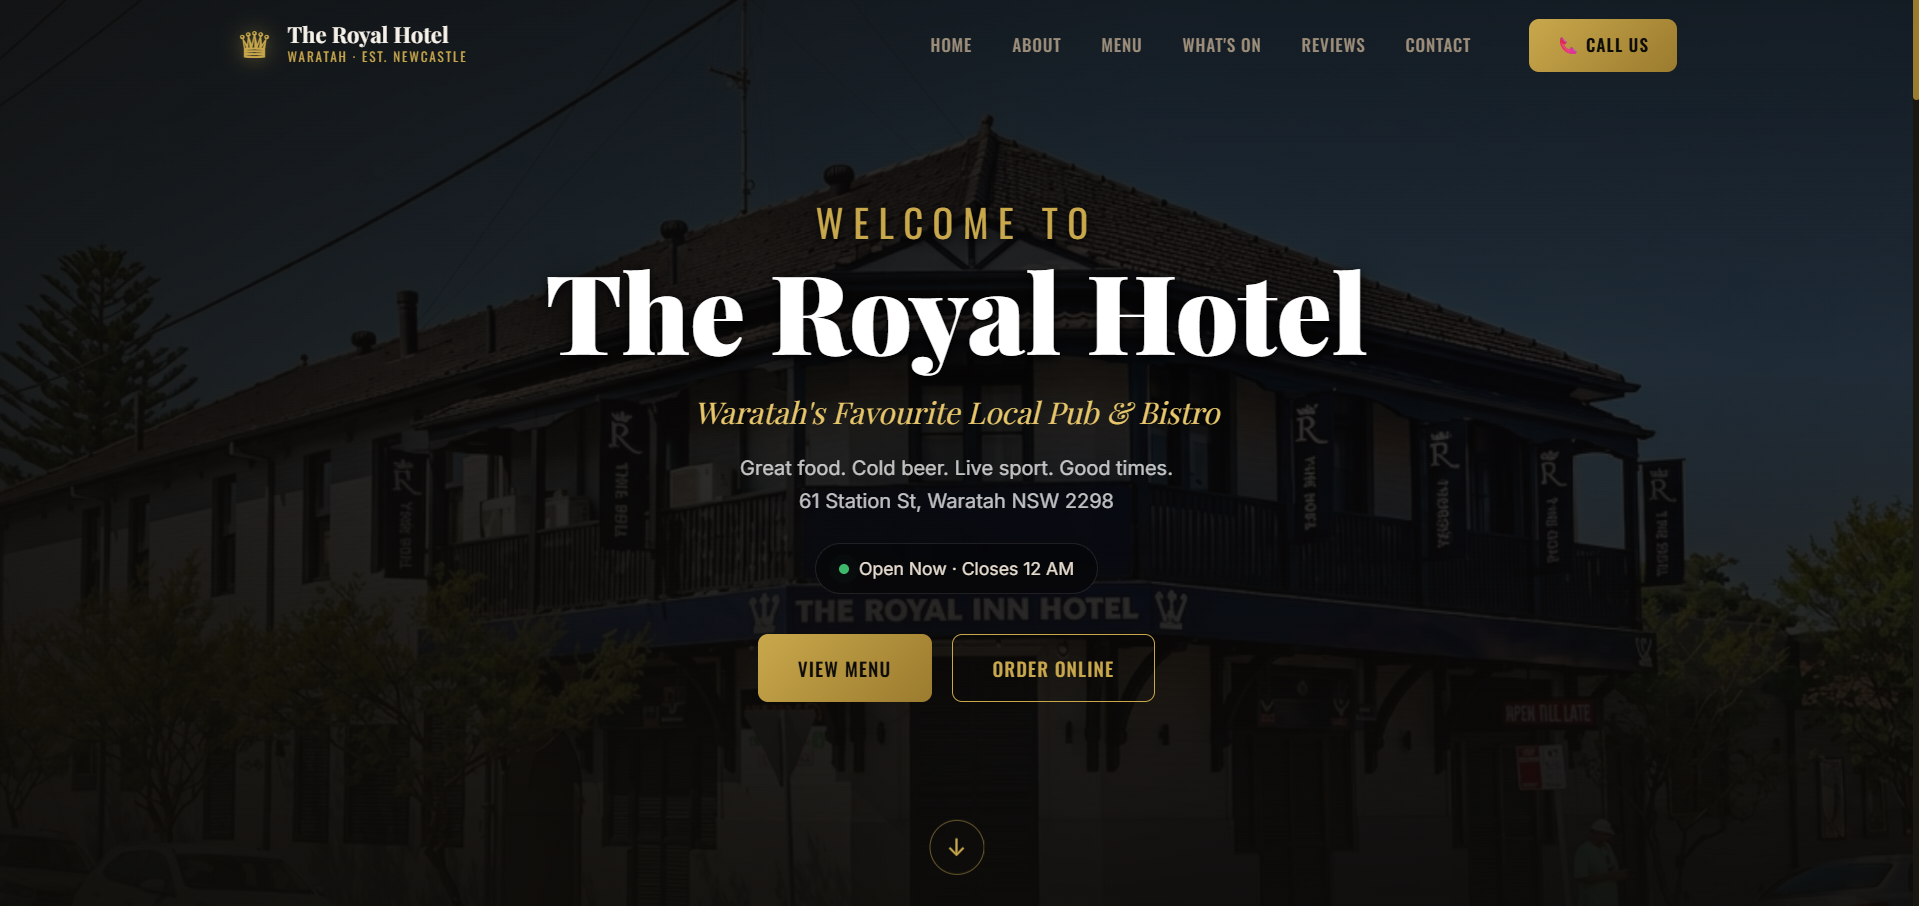
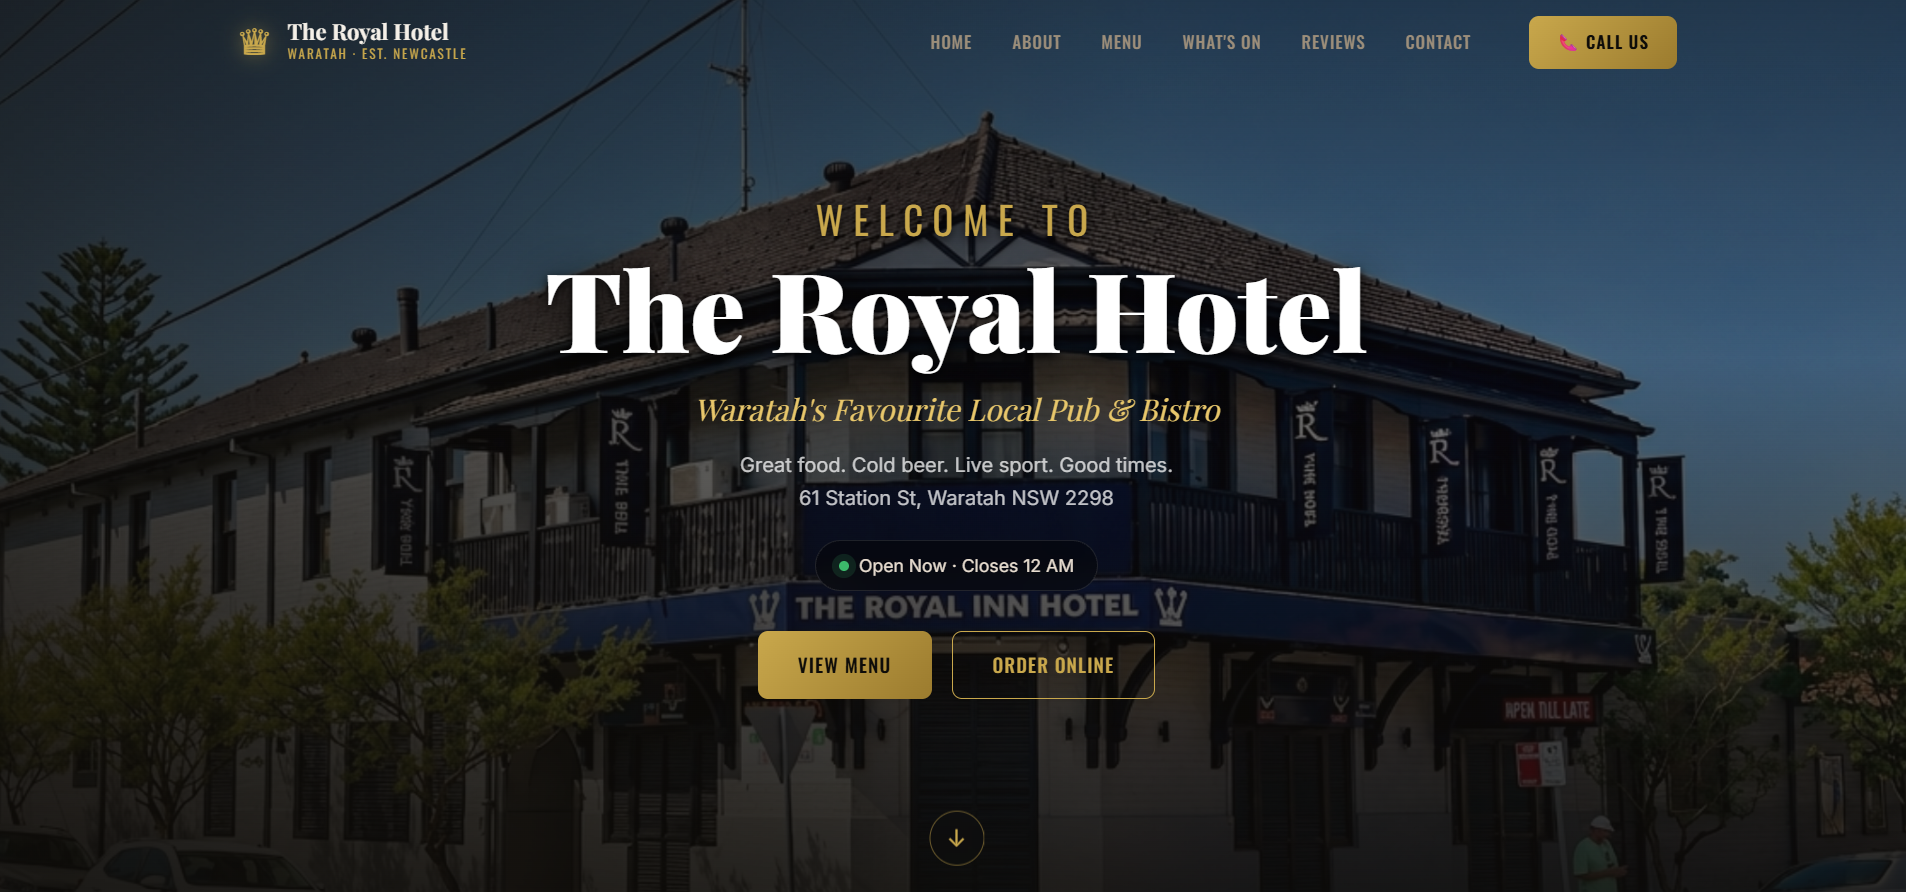
update project

diff --git a/index.html b/index.html
@@ -128,12 +128,6 @@
 
             <div class="social-links">
               <a
-                href="https://www.facebook.com/kunal.kharga.2025"
-                target="_blank"
-                rel="noopener noreferrer"
-                ><i class="fab fa-facebook-f"></i
-              ></a>
-              <a
                 href="https://www.instagram.com/khargakunal/"
                 target="_blank"
                 rel="noopener noreferrer"
@@ -415,6 +409,27 @@
         </div>
 
         <div class="portfolio-grid">
+
+          <div class="portfolio-item">
+            <img src="Assets/order-route.png" alt="Project 3" />
+            <div class="portfolio-overlay">
+              <h3>Order tacking</h3>
+              <p>order tacking and management system</p>
+              <a
+                href="https://github.com/Kunalkharga/ordertrack"
+                target="_blank"
+                class="portfolio-link"
+                ><i class="fa-brands fa-github"></i
+              ></a>
+              <a
+                href="http://ordertrack.vercel.app/"
+                target="_blank"
+                class="portfolio-link"
+                ><i class="fa-solid fa-globe fa-beat"></i
+              ></a>
+            </div>
+          </div>
+
           <div class="portfolio-item">
             <img src="Assets/E-commerce.png" alt="Project 3" />
             <div class="portfolio-overlay">
@@ -436,17 +451,22 @@
           </div>
 
           <div class="portfolio-item">
-            <div class="portfolio-item" data-category="web">
-              <img src="Assets/Digital_portfolio.png" alt="Project 2" />
-              <div class="portfolio-overlay">
-                <h3>Portfolio Website</h3>
-                <p>
-                  Custom portfolio for a photographer<br />( Work In Progress )
-                </p>
-                <a href="#" class="portfolio-link"
-                  ><i class="fa-brands fa-github"></i
-                ></a>
-              </div>
+            <img src="Assets/theroyalhotel.png" alt="Project 3" />
+            <div class="portfolio-overlay">
+              <h3>The Royal Hotel Website</h3>
+              <p>Fully responsive hotel website</p>
+              <a
+                href="https://github.com/Kunalkharga/The-Royal-Hotel"
+                target="_blank"
+                class="portfolio-link"
+                ><i class="fa-brands fa-github"></i
+              ></a>
+              <a
+                href="https://theroyalhotel.vercel.app/"
+                target="_blank"
+                class="portfolio-link"
+                ><i class="fa-solid fa-globe fa-beat"></i
+              ></a>
             </div>
           </div>
 
@@ -506,26 +526,6 @@
               ></a>
             </div>
           </div>
-
-          <div class="portfolio-item">
-            <img src="Assets/theroyalhotel.png" alt="Project 3" />
-            <div class="portfolio-overlay">
-              <h3>The Royal Hotel Website</h3>
-              <p>Fully responsive hotel website</p>
-              <a
-                href="https://github.com/Kunalkharga/The-Royal-Hotel"
-                target="_blank"
-                class="portfolio-link"
-                ><i class="fa-brands fa-github"></i
-              ></a>
-              <a
-                href="https://theroyalhotel.vercel.app/"
-                target="_blank"
-                class="portfolio-link"
-                ><i class="fa-solid fa-globe fa-beat"></i
-              ></a>
-            </div>
-          </div>
         </div>
       </div>
     </section>
@@ -568,12 +568,6 @@
             </div>
 
             <div class="contact-social">
-              <a
-                href="https://www.facebook.com/kunal.kharga.2025"
-                target="_blank"
-                rel="noopener noreferrer"
-                ><i class="fab fa-facebook-f"></i
-              ></a>
               <a
                 href="https://www.instagram.com/khargakunal/"
                 target="_blank"

diff --git a/style.css b/style.css
@@ -800,37 +800,54 @@ nav ul li a.active {
 
 .portfolio-grid {
     display: grid;
-    grid-template-columns: repeat(auto-fill, minmax(350px, 1fr));
-    gap: 30px;
+    grid-template-columns: repeat(2, 1fr);
+    gap: 40px;
 }
 
 .portfolio-item {
     position: relative;
-    border-radius: 10px;
+    border-radius: 16px;
     overflow: hidden;
-    box-shadow: 0 5px 15px rgba(0, 0, 0, 0.1);
-    transition: var(--transition);
+    box-shadow: 0 10px 30px rgba(0, 0, 0, 0.08);
+    transition: all 0.4s cubic-bezier(0.175, 0.885, 0.32, 1.275);
+    background-color: var(--white);
     transform: translateY(0);
 }
 
 .dark-mode .portfolio-item {
-    box-shadow: 0 5px 15px rgba(0, 0, 0, 0.3);
+    box-shadow: 0 10px 30px rgba(0, 0, 0, 0.4);
+    background-color: var(--dark-surface);
 }
 
 .portfolio-item:hover {
-    transform: translateY(-10px);
-    box-shadow: 0 15px 30px rgba(0, 0, 0, 0.2);
+    transform: translateY(-12px);
+    box-shadow: 0 20px 40px rgba(0, 0, 0, 0.15);
 }
 
 .dark-mode .portfolio-item:hover {
-    box-shadow: 0 15px 30px rgba(0, 0, 0, 0.4);
+    box-shadow: 0 20px 40px rgba(0, 0, 0, 0.5);
 }
 
 .portfolio-item img {
     width: 100%;
-    height: 250px;
+    height: 320px;
     object-fit: cover;
+    object-position: top;
     display: block;
+    transition: object-position 4s ease-in-out;
+}
+
+.portfolio-item:hover img {
+    object-position: bottom;
+}
+
+.portfolio-item img.center-image {
+    object-position: center;
+}
+
+.portfolio-item:hover img.center-image {
+    object-position: center;
+    transform: scale(1.05);
 }
 
 .portfolio-overlay {
@@ -838,10 +855,16 @@ nav ul li a.active {
     bottom: -100%;
     left: 0;
     width: 100%;
-    padding: 20px;
-    background-color: rgba(74, 108, 247, 0.9);
-    color: var(--white);
-    transition: var(--transition);
+    height: 100%;
+    padding: 30px 20px 20px;
+    background: linear-gradient(to top, rgba(15, 23, 42, 0.95) 0%, rgba(15, 23, 42, 0.8) 50%, rgba(15, 23, 42, 0.4) 100%);
+    backdrop-filter: blur(4px);
+    -webkit-backdrop-filter: blur(4px);
+    color: #ffffff;
+    transition: all 0.4s ease-in-out;
+    display: flex;
+    flex-wrap: wrap;
+    align-content: flex-end;
 }
 
 .portfolio-item:hover .portfolio-overlay {
@@ -850,16 +873,19 @@ nav ul li a.active {
 
 .portfolio-overlay h3 {
     font-size: 20px;
-    margin-bottom: 10px;
+    margin-bottom: 5px;
+    width: 100%;
 }
 
 .portfolio-overlay p {
     font-size: 14px;
     margin-bottom: 15px;
     opacity: 0.9;
+    width: 100%;
 }
 
 .portfolio-link {
+    margin-right: 15px;
     display: inline-flex;
     align-items: center;
     justify-content: center;
